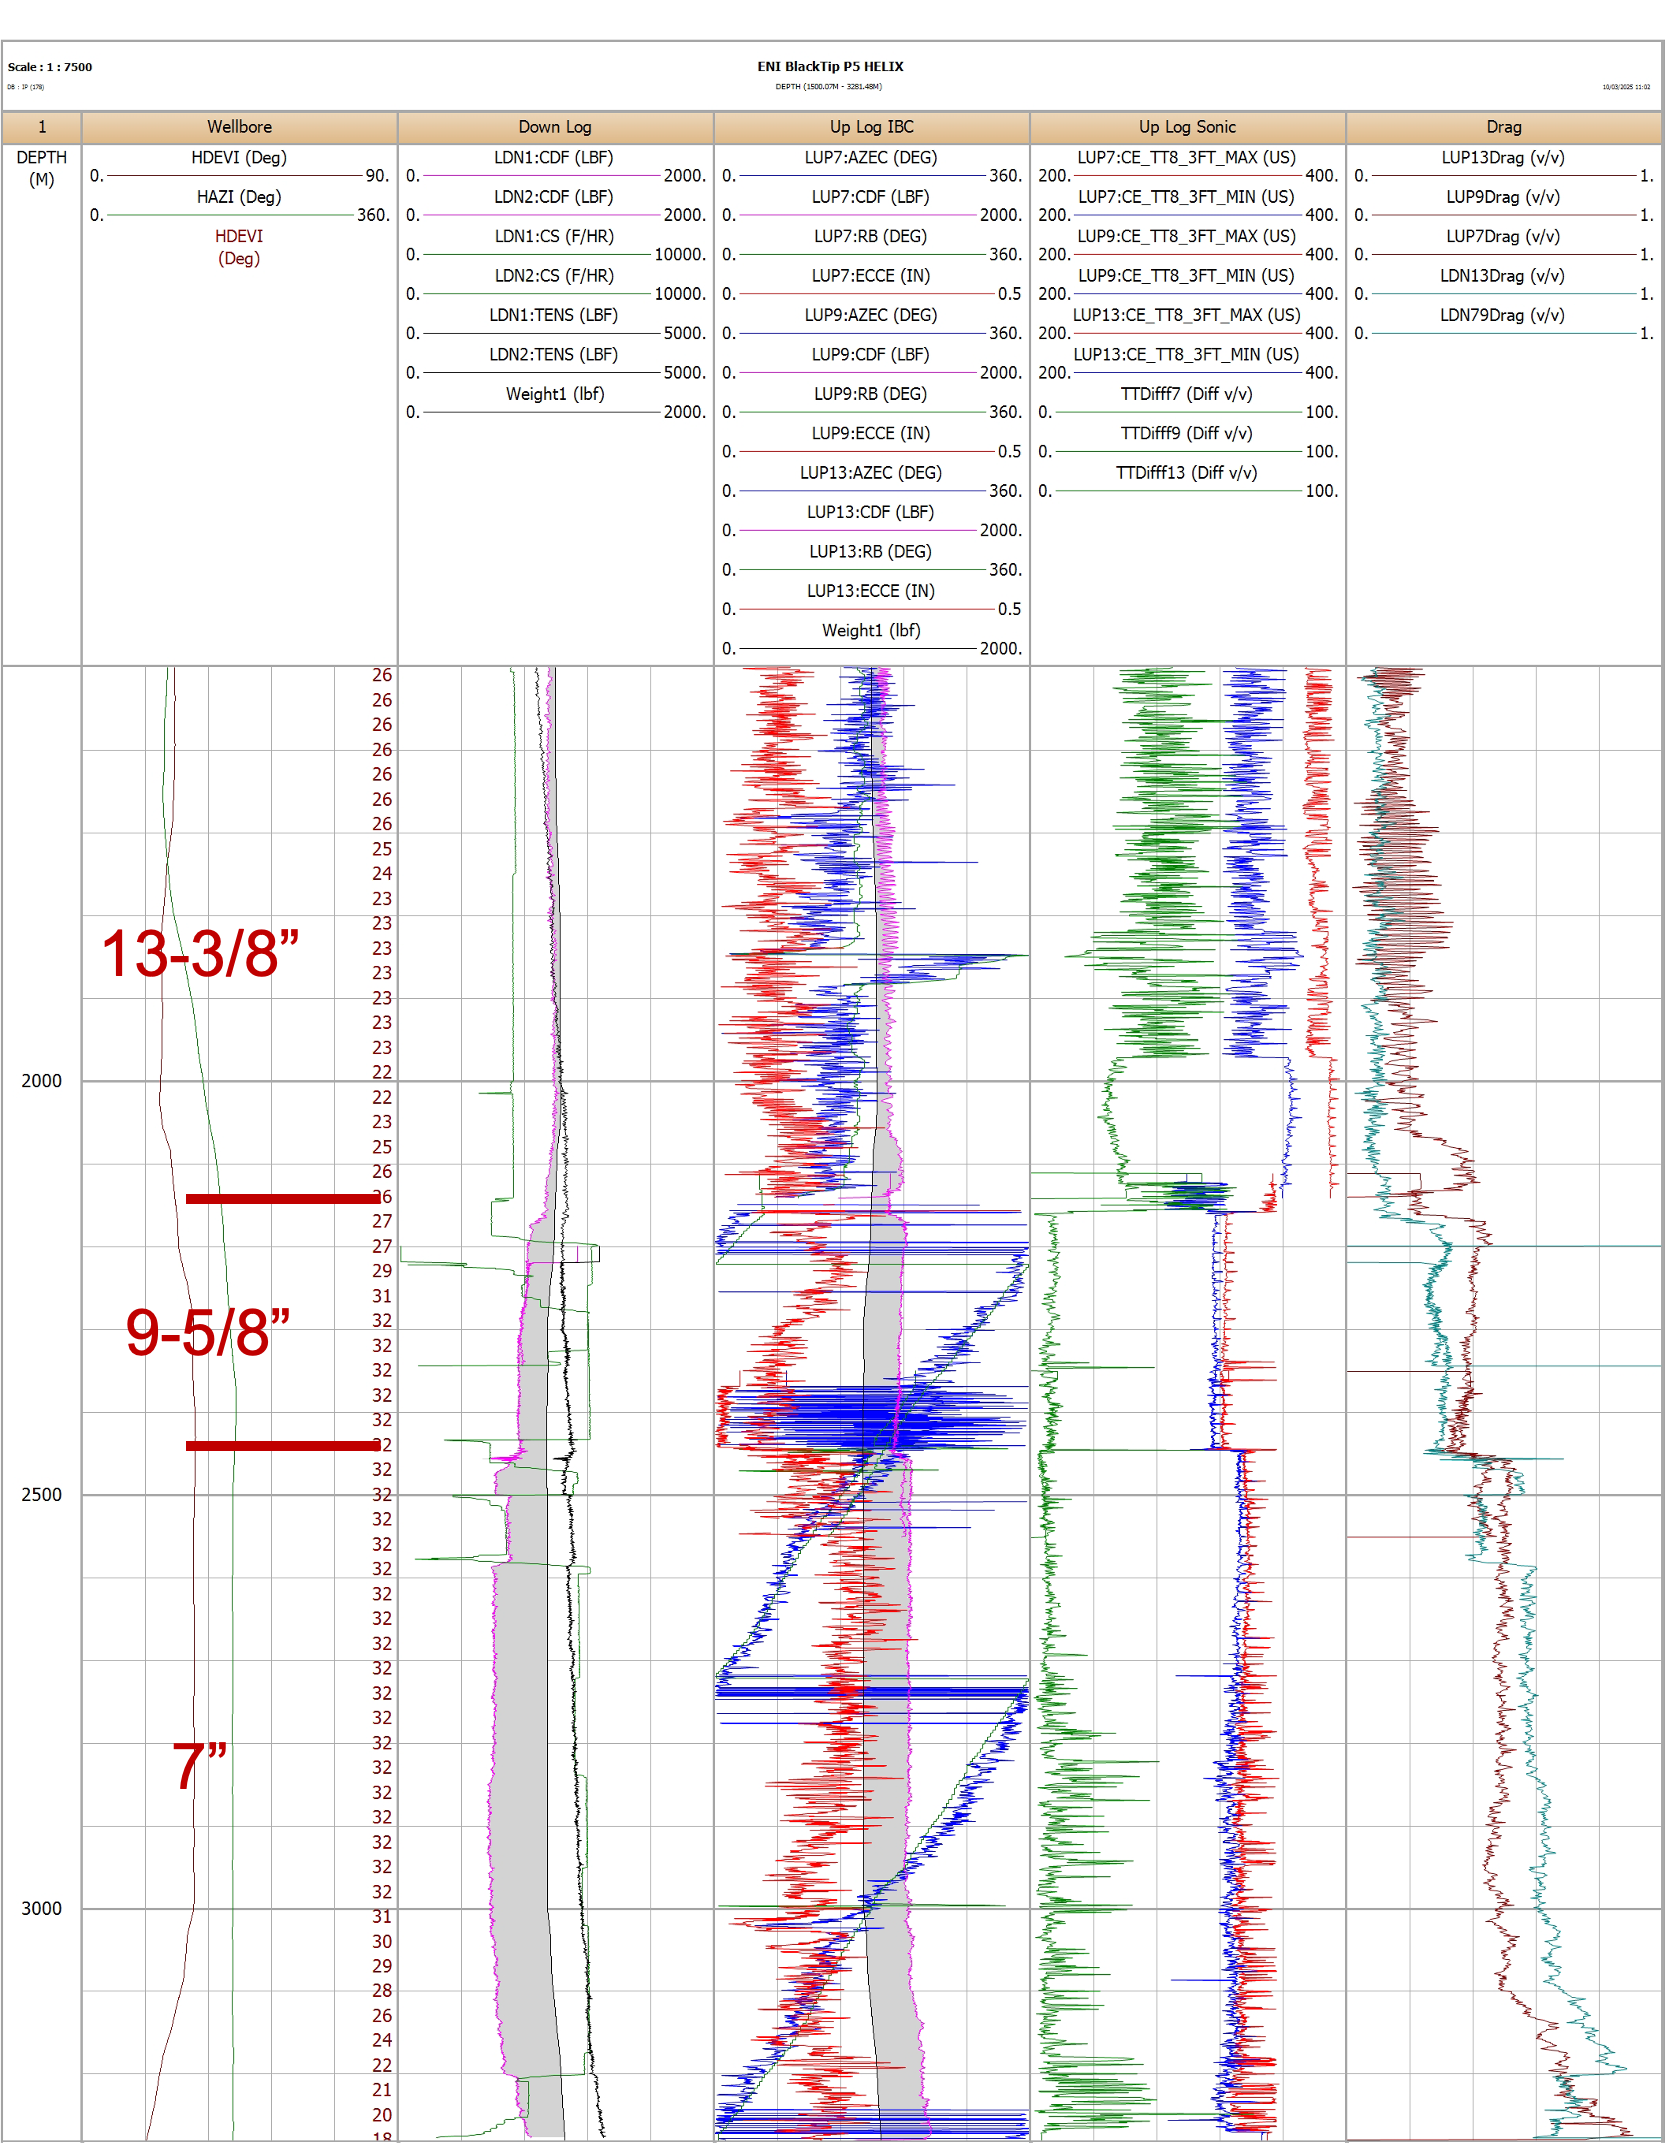
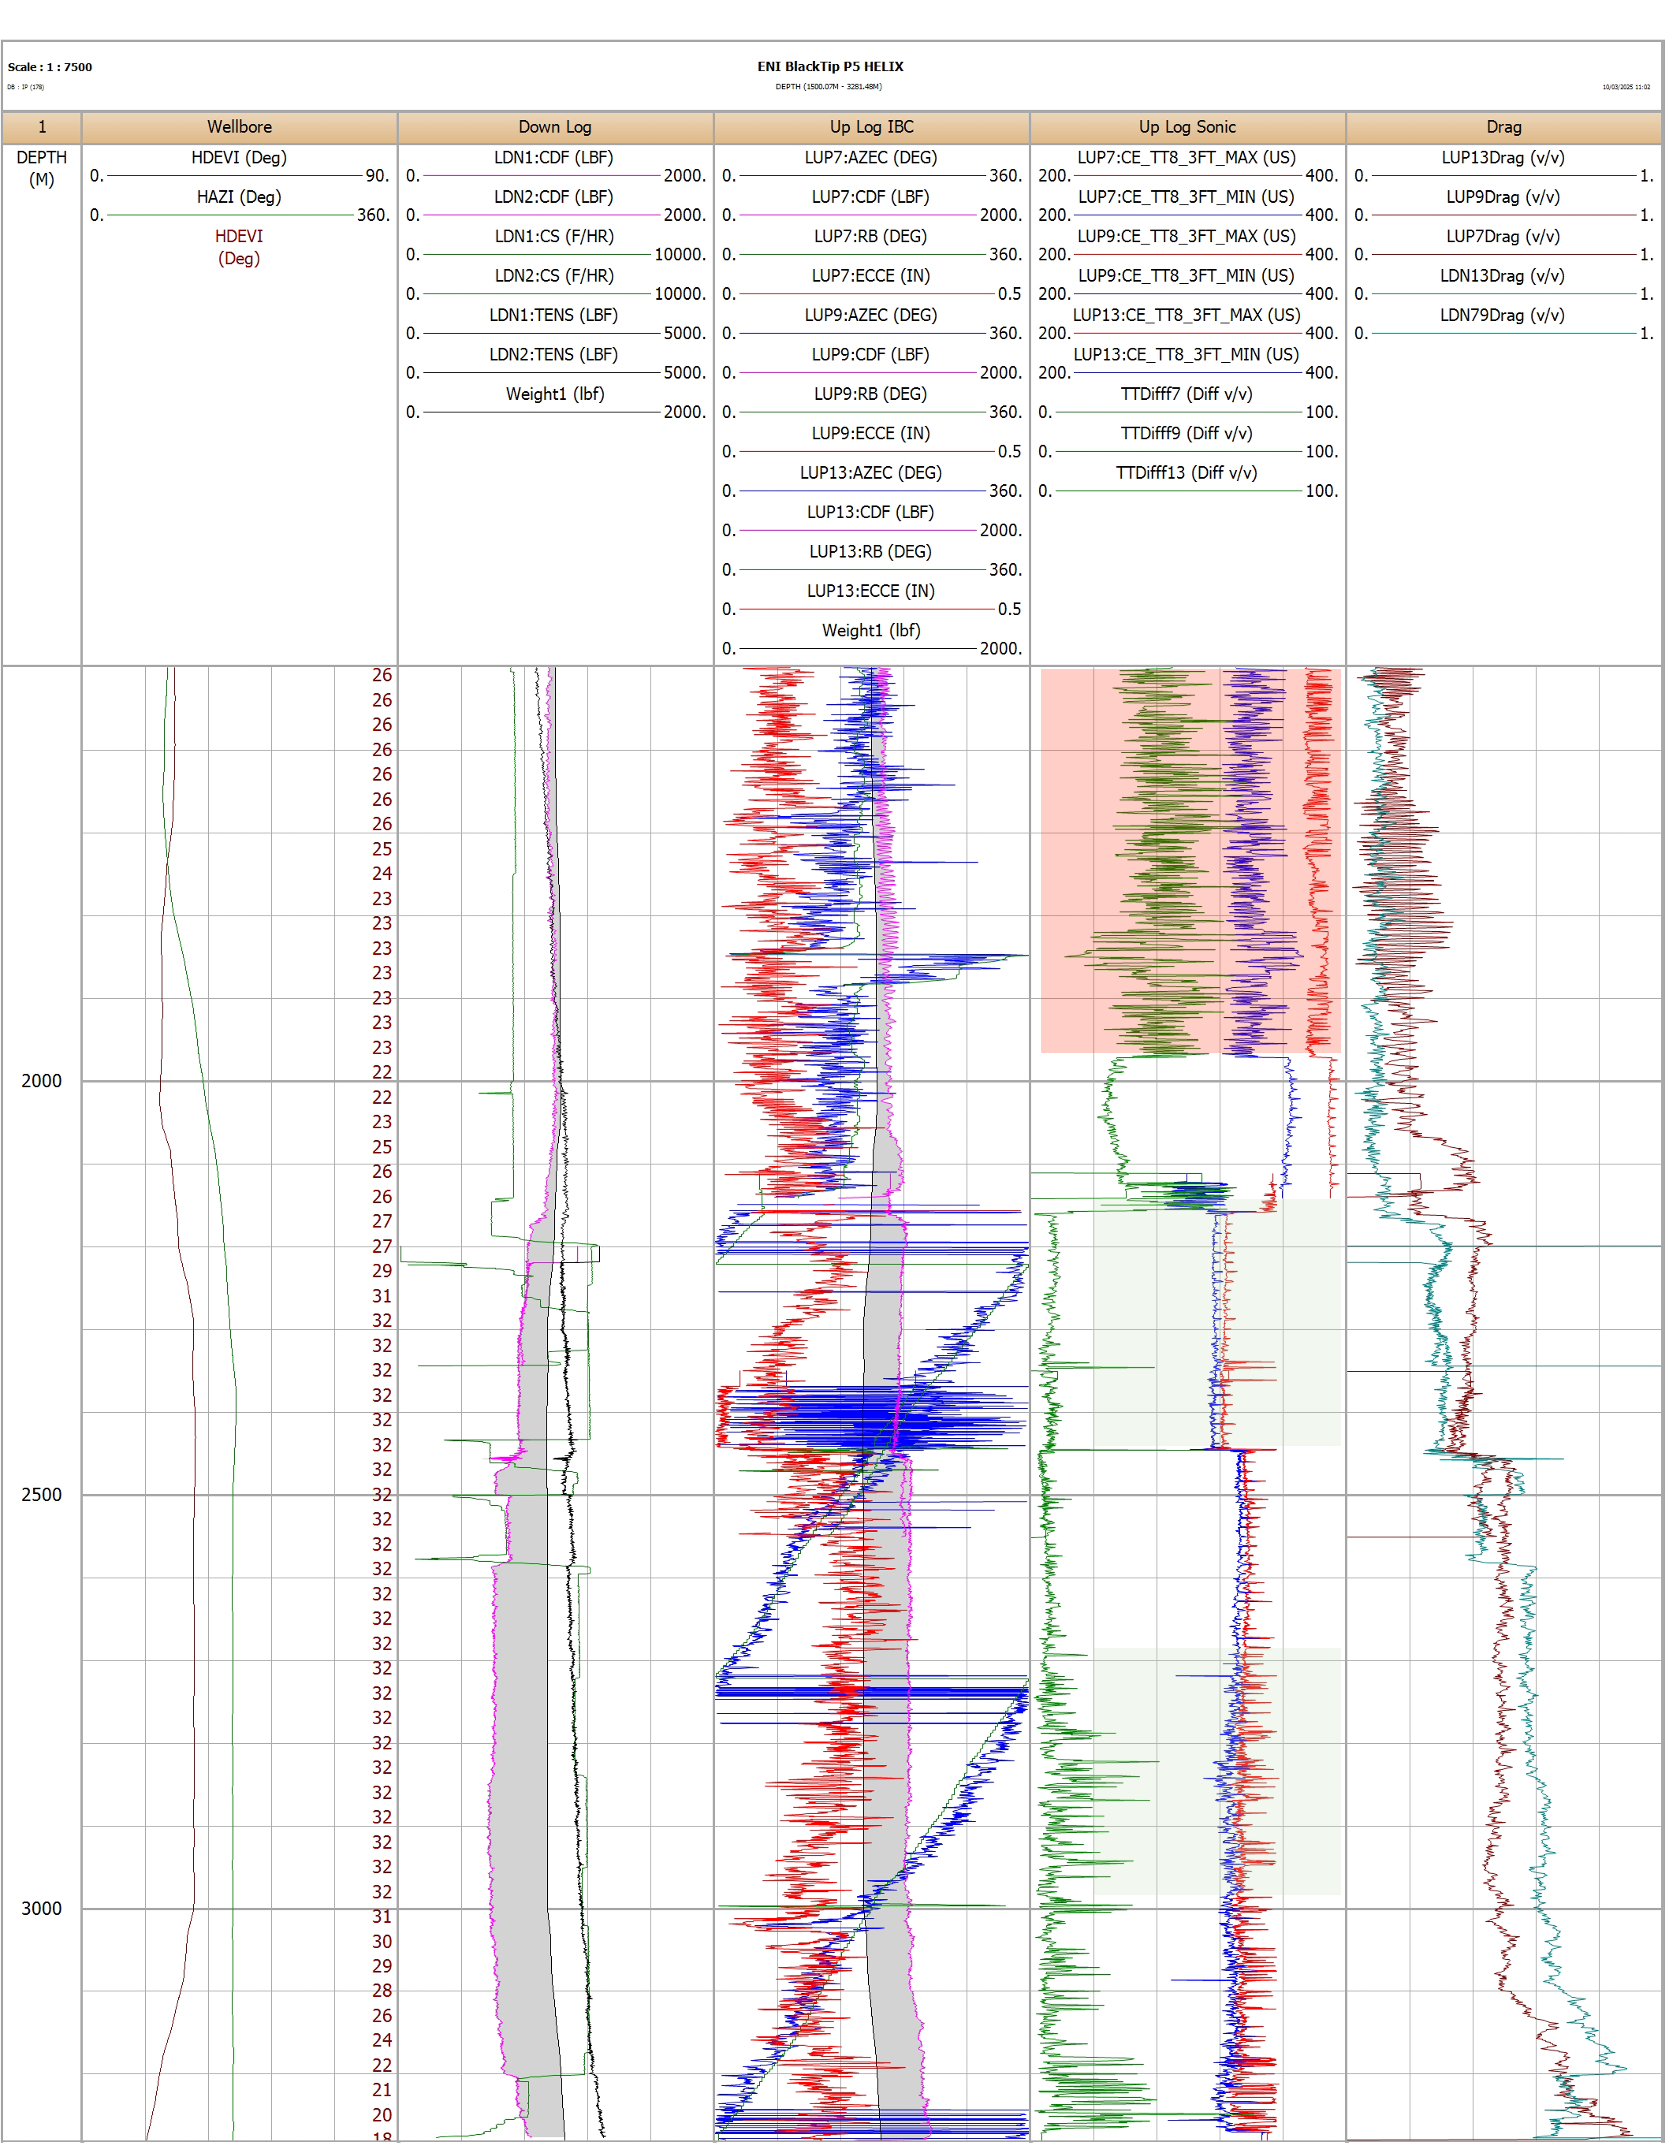
kiosk: bake annotations into Helix log 1+2 images, move pager to edge arrows
Slides 1 and 2 of the Helix case studies now ship with the call-out
circles drawn into the source images directly — no SVG overlay needed.
Cleaner authoring story too: Rajesh edits a single PNG and the slide
picks up the new artwork automatically.

- Helix_Log1.png replaces Helix_Log1.jpg (annotations baked in).
- Helix_Log2.png updated in place (annotations baked in).
- HELIX_LOGS slide 1 + 2: empty `circles: []` and dropped the 'Key
  takeaway' eyebrow. Side cards still carry the title + bullets.
- Slide 3 keeps its histogram-detail circle (image unchanged).

Pager redesign: the prev/next buttons that used to sit in a footer
under the slide now live as large round buttons fixed at the left and
right middle edges of the slide area, with the page indicator dropping
down next to the caption pill at bottom-centre. Applied symmetrically
in LogsScreen (case studies) and MechanismScreen so the two slideshows
feel consistent. Boundary slides keep the buttons but fade them to 25%
opacity so the layout doesn't shift between slides.

diff --git a/src/components/kiosk/ch/LogsScreen.tsx b/src/components/kiosk/ch/LogsScreen.tsx
@@ -100,10 +100,10 @@ interface Props {
 
 // ── Cased Hole presets (ported from the original Helix/Rocker maps) ──────────
 // Asset slots — drop files at these paths and the slides pick them up:
-//   /public/images/kiosk-images/Helix_Log1.jpg    (annotated slide 1)
-//   /public/images/kiosk-images/Helix_Log2.png    (annotated slide 2)
-//   /public/images/kiosk-images/Helix_Log3-1.jpg  (annotated slide 3, main strip)
-//   /public/images/kiosk-images/Helix_Log3-2.png  (annotated slide 3, ECCE histogram inset)
+//   /public/images/kiosk-images/Helix_Log1.png    (slide 1 — annotations baked into image)
+//   /public/images/kiosk-images/Helix_Log2.png    (slide 2 — annotations baked into image)
+//   /public/images/kiosk-images/Helix_Log3-1.jpg  (slide 3, main strip)
+//   /public/images/kiosk-images/Helix_Log3-2.png  (slide 3, ECCE histogram inset)
 //   /public/images/helix-cbl-setup.png            (CBL slide)
 //   /public/images/rocker-logs-{N}.png            (Rocker log comparisons)
 //
@@ -119,32 +119,25 @@ export const HELIX_LOGS: LogsConfig = {
     //
     // Slide 1 — PEMEX CIBIX-35 log strip. Four leftward drops in the red
     // HTEN curve, each only ~60 lbs, demonstrate how cleanly the CX9 Helix
-    // runs through IBC + Sonic ledges. Circle positions are approximate
-    // (% of the image bounding box) — easy to dial in from a tablet once
-    // we're standing in front of the kiosk.
+    // runs through IBC + Sonic ledges. The annotation circles are baked
+    // into Helix_Log1.png so the slide just renders the image + side card.
     {
       type: 'annotated',
-      src: '/images/kiosk-images/Helix_Log1.jpg',
+      src: '/images/kiosk-images/Helix_Log1.png',
       caption: 'PEMEX CIBIX-35 — HELIX run',
       annotations: [
         {
-          eyebrow: 'Key takeaway',
           title: '4 drops in HTEN of ONLY 60 lbs from CX9 on IBC & Sonic',
           tone: 'blue',
-          circles: [
-            { xPct: 80, yPct: 49 },
-            { xPct: 72, yPct: 67 },
-            { xPct: 71, yPct: 79 },
-            { xPct: 69, yPct: 90 },
-          ],
+          circles: [],
         },
       ],
     },
     // Slide 2 — ENI BlackTip P5 log strip. Two contrasting outcomes on the
-    // same well: poor centralisation in the upper 13-3/8" with conventional
+    // same well: poor centralisation up in the 13-3/8" with conventional
     // centralisers, then excellent centralisation in the deeper 9-5/8" and
-    // 7" sections after switching to CX9. Two annotation blocks — red zone
-    // up top, blue zone in the middle + bottom.
+    // 7" sections after switching to CX9. Circles are baked into the
+    // image; this config carries the two side cards (red + blue).
     {
       type: 'annotated',
       src: '/images/kiosk-images/Helix_Log2.png',
@@ -157,11 +150,7 @@ export const HELIX_LOGS: LogsConfig = {
             'Large difference between Min and Max TT’s',
             'Erratic & poor sonic data',
           ],
-          circles: [
-            // Sonic track, upper 13-3/8" zone — wider radius so it reads
-            // as "this whole noisy region", not a pinpoint.
-            { xPct: 65, yPct: 22, rPct: 7 },
-          ],
+          circles: [],
         },
         {
           tone: 'blue',
@@ -169,12 +158,7 @@ export const HELIX_LOGS: LogsConfig = {
           bullets: [
             'Difference between Min and Max TT’s < 10 µs',
           ],
-          circles: [
-            // Sonic track, 9-5/8" zone.
-            { xPct: 65, yPct: 44, rPct: 5 },
-            // Sonic track, 7" zone.
-            { xPct: 65, yPct: 62, rPct: 5 },
-          ],
+          circles: [],
         },
       ],
     },
@@ -269,37 +253,66 @@ export default function LogsScreen({ config, onBack }: Props) {
           />
         )}
 
+        {/* Pager — large round arrow buttons fixed at the left + right
+            middle edges of the slide area. Disabled (faded out) at the
+            boundaries instead of removed, so the layout doesn't shift
+            when paging. Page indicator pill sits next to the caption. */}
+        {slides.length > 1 && (
+          <>
+            <SlideNavButton
+              direction="prev"
+              onClick={() => setIndex((i) => Math.max(0, i - 1))}
+              disabled={index === 0}
+            />
+            <SlideNavButton
+              direction="next"
+              onClick={() =>
+                setIndex((i) => Math.min(slides.length - 1, i + 1))
+              }
+              disabled={index === slides.length - 1}
+            />
+          </>
+        )}
+
         {slide && (
-          <div className="absolute bottom-6 left-1/2 -translate-x-1/2 px-4 py-2 rounded-full bg-black/60 text-sm">
-            {slide.caption}
+          <div className="absolute bottom-6 left-1/2 -translate-x-1/2 flex items-center gap-3">
+            <div className="px-4 py-2 rounded-full bg-black/60 text-sm">
+              {slide.caption}
+            </div>
+            {slides.length > 1 && (
+              <div className="px-3 py-1.5 rounded-full bg-black/60 text-white/70 text-xs tabular-nums">
+                {index + 1} / {slides.length}
+              </div>
+            )}
           </div>
         )}
       </div>
-
-      {slides.length > 1 && (
-        <footer className="flex items-center justify-center gap-3 py-4 border-t border-white/10">
-          <button
-            onClick={() => setIndex((i) => Math.max(0, i - 1))}
-            disabled={index === 0}
-            className="px-4 py-2 rounded bg-white/10 hover:bg-white/20 disabled:opacity-30"
-          >
-            ← Prev
-          </button>
-          <span className="text-white/60 text-sm tabular-nums">
-            {index + 1} / {slides.length}
-          </span>
-          <button
-            onClick={() =>
-              setIndex((i) => Math.min(slides.length - 1, i + 1))
-            }
-            disabled={index === slides.length - 1}
-            className="px-4 py-2 rounded bg-white/10 hover:bg-white/20 disabled:opacity-30"
-          >
-            Next →
-          </button>
-        </footer>
-      )}
     </div>
+  );
+}
+
+/** Large round arrow button pinned to the left or right middle edge of a
+ *  slide area. Used by both the Case Studies (LogsScreen) and Mechanism
+ *  (MechanismScreen) pagers. */
+function SlideNavButton({
+  direction,
+  onClick,
+  disabled,
+}: {
+  direction: 'prev' | 'next';
+  onClick: () => void;
+  disabled: boolean;
+}) {
+  const sideClass = direction === 'prev' ? 'left-4' : 'right-4';
+  return (
+    <button
+      onClick={onClick}
+      disabled={disabled}
+      aria-label={direction === 'prev' ? 'Previous slide' : 'Next slide'}
+      className={`absolute top-1/2 -translate-y-1/2 z-30 ${sideClass} w-14 h-14 rounded-full bg-black/55 hover:bg-black/75 border border-white/15 text-white text-3xl flex items-center justify-center shadow-lg transition disabled:opacity-25 disabled:cursor-not-allowed`}
+    >
+      {direction === 'prev' ? '‹' : '›'}
+    </button>
   );
 }
 

diff --git a/src/components/kiosk/ch/MechanismScreen.tsx b/src/components/kiosk/ch/MechanismScreen.tsx
@@ -268,36 +268,38 @@ export default function MechanismScreen({ config, onBack }: Props) {
             bullets={slide.bullets}
           />
         )}
-      </div>
 
-      {slides.length > 1 && (
-        <footer className="flex items-center justify-between gap-3 py-4 px-8 border-t border-white/10">
-          <span className="text-white/50 text-xs uppercase tracking-[0.2em]">
-            {config.sourceNote ?? ''}
-          </span>
-          <div className="flex items-center gap-3">
-            <button
+        {/* Pager — large round arrow buttons on the left + right middle
+            edges of the slide area. Disabled (faded) at the boundaries
+            rather than removed so the layout doesn't shift between slides.
+            Page indicator + sourceNote sit in a bottom-centre pill. */}
+        {slides.length > 1 && (
+          <>
+            <SlideNavButton
+              direction="prev"
               onClick={() => setIndex((i) => Math.max(0, i - 1))}
               disabled={index === 0}
-              className="px-4 py-2 rounded bg-white/10 hover:bg-white/20 disabled:opacity-30"
-            >
-              ← Prev
-            </button>
-            <span className="text-white/60 text-sm tabular-nums">
-              {index + 1} / {slides.length}
-            </span>
-            <button
+            />
+            <SlideNavButton
+              direction="next"
               onClick={() =>
                 setIndex((i) => Math.min(slides.length - 1, i + 1))
               }
               disabled={index === slides.length - 1}
-              className="px-4 py-2 rounded bg-white/10 hover:bg-white/20 disabled:opacity-30"
-            >
-              Next →
-            </button>
-          </div>
-        </footer>
-      )}
+            />
+            <div className="absolute bottom-4 left-1/2 -translate-x-1/2 flex items-center gap-3 z-20">
+              {config.sourceNote && (
+                <span className="px-3 py-1.5 rounded-full bg-black/55 text-white/55 text-[10px] uppercase tracking-[0.2em]">
+                  {config.sourceNote}
+                </span>
+              )}
+              <span className="px-3 py-1.5 rounded-full bg-black/60 text-white/70 text-xs tabular-nums">
+                {index + 1} / {slides.length}
+              </span>
+            </div>
+          </>
+        )}
+      </div>
 
       {specsOpen && config.specs && (
         <SpecsModal
@@ -654,5 +656,32 @@ function SpecsModal({
         </div>
       )}
     </div>
+  );
+}
+
+// ── Pager ───────────────────────────────────────────────────────────────────
+
+/** Large round arrow button pinned to the left or right middle edge of the
+ *  slide area. Mirrors the same affordance used in LogsScreen (case
+ *  studies pager) so the two slideshows feel consistent. */
+function SlideNavButton({
+  direction,
+  onClick,
+  disabled,
+}: {
+  direction: 'prev' | 'next';
+  onClick: () => void;
+  disabled: boolean;
+}) {
+  const sideClass = direction === 'prev' ? 'left-4' : 'right-4';
+  return (
+    <button
+      onClick={onClick}
+      disabled={disabled}
+      aria-label={direction === 'prev' ? 'Previous slide' : 'Next slide'}
+      className={`absolute top-1/2 -translate-y-1/2 z-30 ${sideClass} w-14 h-14 rounded-full bg-black/55 hover:bg-black/75 border border-white/15 text-white text-3xl flex items-center justify-center shadow-lg transition disabled:opacity-25 disabled:cursor-not-allowed`}
+    >
+      {direction === 'prev' ? '‹' : '›'}
+    </button>
   );
 }
